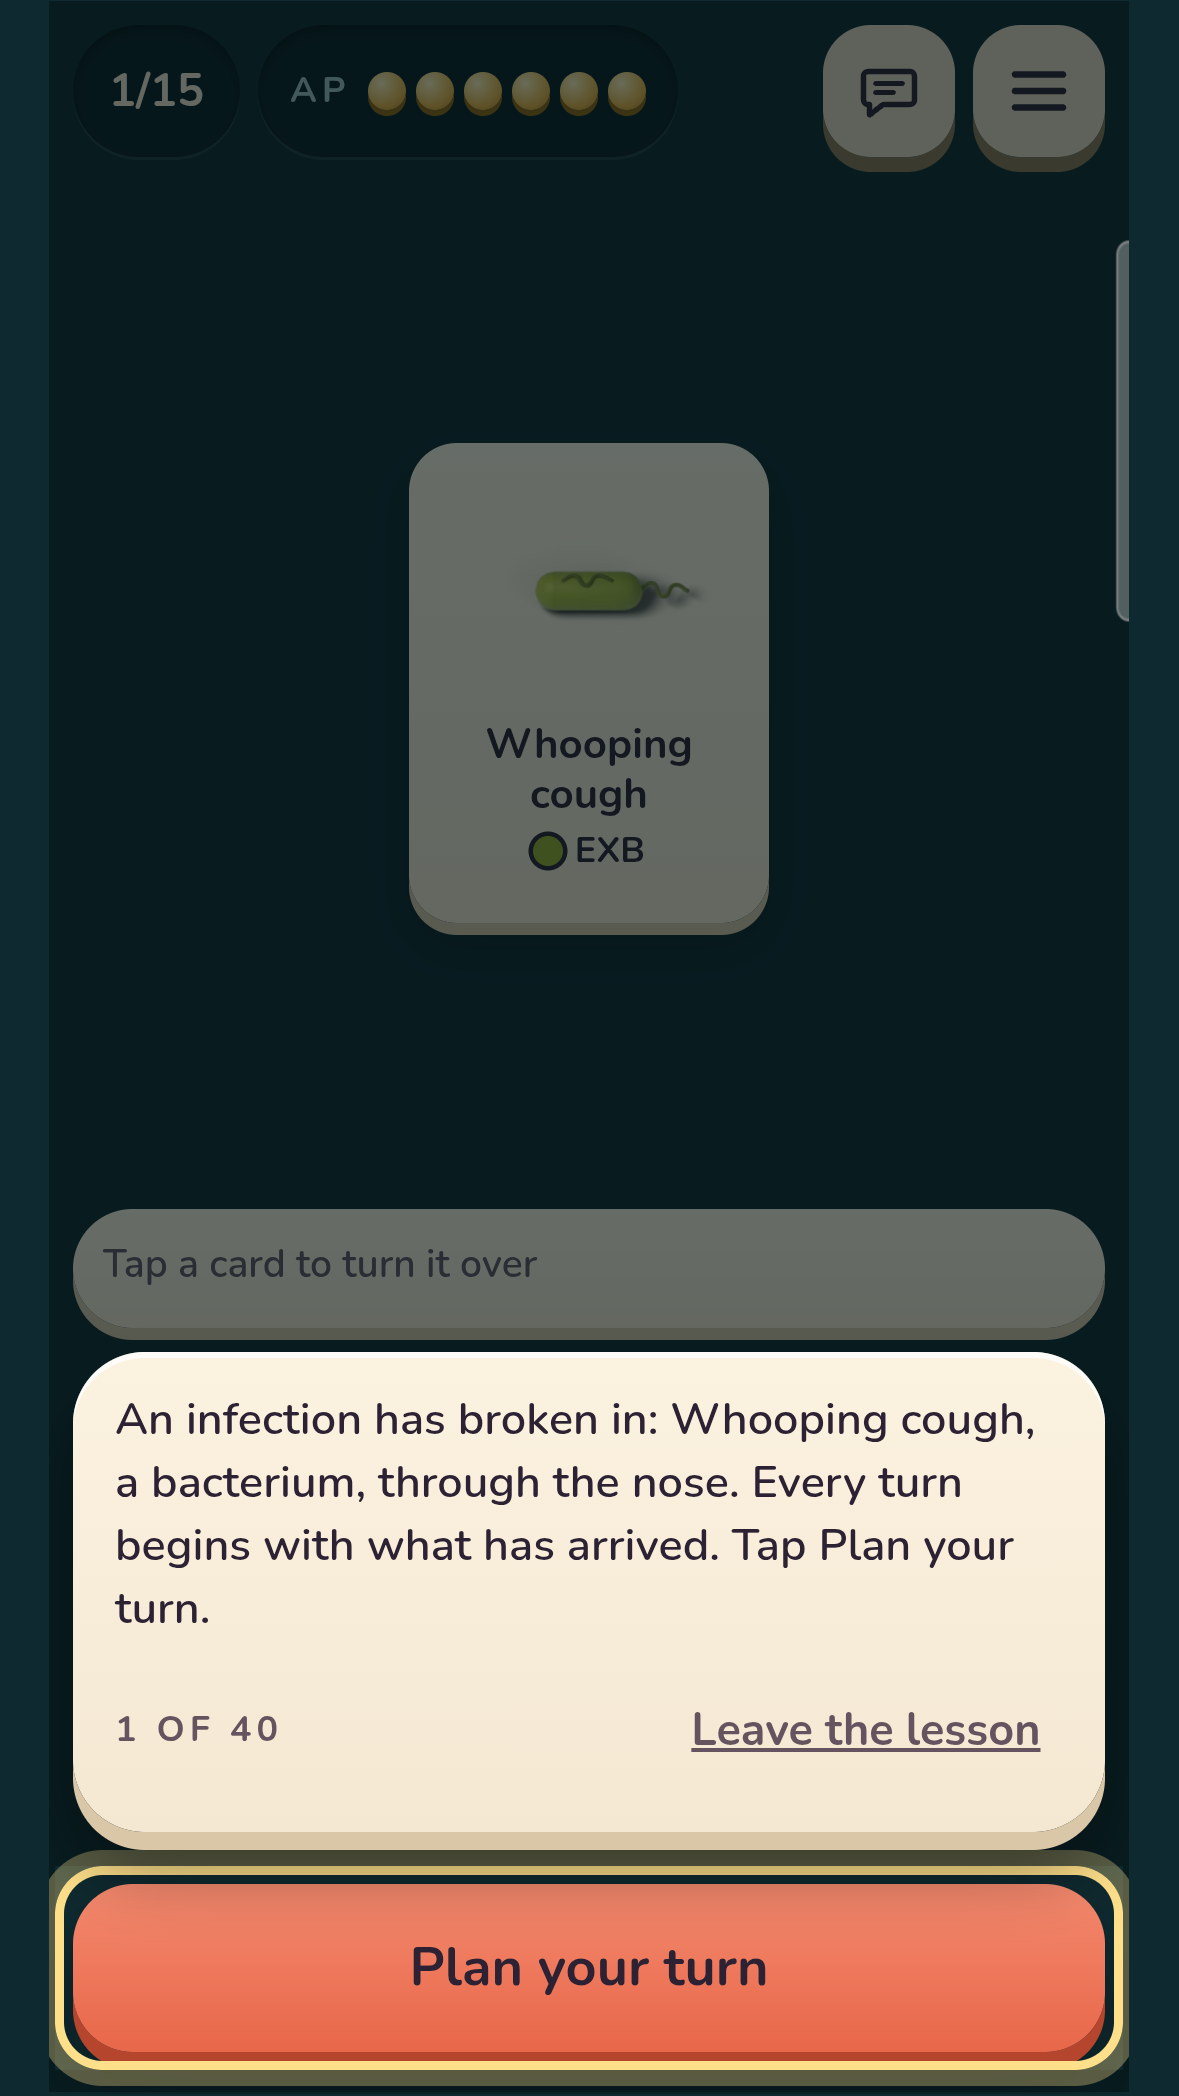
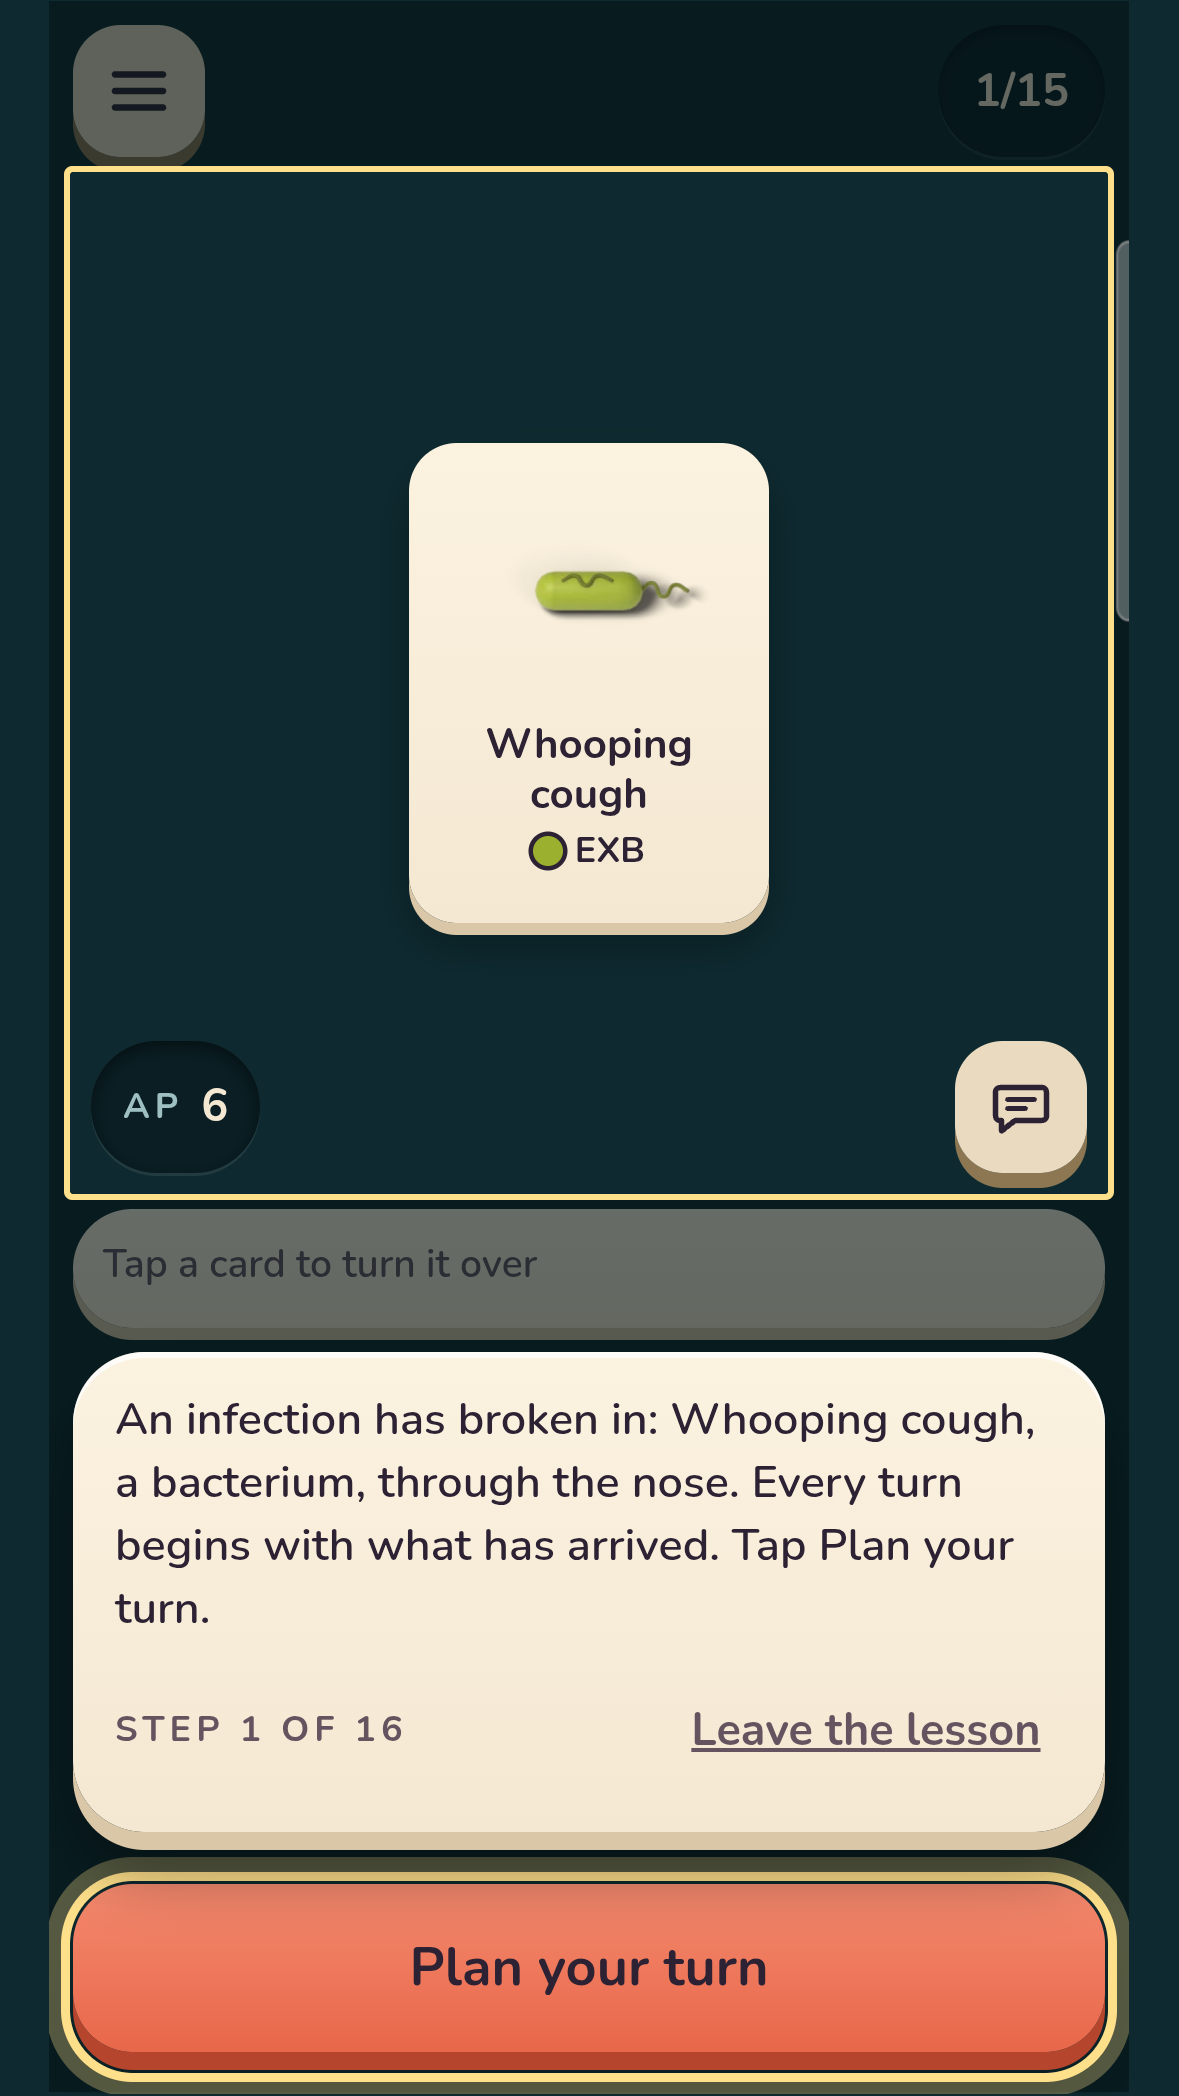
The public release on Google Play, recorded; the store pictures made current
Ruled 18 and 20 October 2026: the game is released on Google Play before
Gate 2 (docs/LOOK_PLAN.md §31; brief v2.3). Version 0.9, code 2, from main at
f01dccf, live on 20 October in all 178 countries. Gate 2 is still open.

- §31 records the release, the closed test's code 2, and the deploys since
  5 October that no section held: the app on 5 and 17 October, the relay on
  17 October.
- The store's pictures, taken again: six phone screenshots on the S25, twelve
  tablet ones from the web build. The screenshot tool had stopped working when
  Learn to play began opening the chapters (16 October); it presses the
  chapter that can be played now.
- Capacitor's generated settings file names 8.5.3, as Dependabot's updates
  left it naming 8.5.2; pnpm android:bundle refuses a working folder with
  changes.
- TODO: the public release leaves the list; the screenshots row records the
  retake.

diff --git a/tools/art-pipeline/store-shots.ts b/tools/art-pipeline/store-shots.ts
@@ -123,7 +123,10 @@ async function walk(
     await fresh();
     await shoot('1-title');
     // The guided game, past its goal dialog (whose one button is Begin), its light on the first step.
+    // Learn to play opens the chapters since 16 October 2026 (docs/LOOK_PLAN.md §29); on a first
+    // visit the one that can be played is the first.
     await pressSel('[data-title="learn"]');
+    await pressSel('[data-chapter-state="open"]');
     await pressSel('[data-dialog-dismiss]');
     await sleep(3500);
     await shoot('2-guided-game');

diff --git a/docs/LOOK_PLAN.md b/docs/LOOK_PLAN.md
@@ -2893,3 +2893,73 @@ let's hide it beneath a switch in code and adjust audit step etc. record the rul
   so the Result, its two screens and a cell's card from the inspect sheet were not measured there,
   and a row with several targets was not dealt in two passes. Each is the dice's, as the audit is
   unseeded by ruling (§20), and each was measured clean in the other passes.
+
+## 31. Ruled 18 and 20 October 2026: released on Google Play, before Gate 2
+
+**The closed test's fourteen days were done on 18 October.** He asked: *"14 days are done shall I
+apply for production? We can always keep uodating right?"*, and then: *"Yes I would apply the
+latest build everywhere."* He applied for production access himself that evening, at 20:38. **Google granted it
+on 20 October,** and he wrote: *"approval has come from google, let's make the app live"*. Told
+then that this overrides the order the plan and the brief had, he went ahead.
+
+- **This replaces the order of §26 and the brief's v2.2**, where the public release waited for his
+  visual approval. The brief is v2.3 and says so.
+- **Gate 2 is not met,** and stays the gate this phase ends on. His approval of the whole look has
+  not been given; the screens now reach players through store updates while it is open.
+
+### What reached people, from 5 October
+
+| When | What | From `main` at | Version |
+|---|---|---|---|
+| 5 October, 20:21 IST | The app: the lesson in chapters and why each beat of the spread happened (§28, step 3) | `45d9578` | `20261005-202119-45d9578` |
+| 17 October, 11:41 IST | The app: the chapters to choose, what a card talks about lit, the layout's symmetry, his words for the lesson (§29) | `10f1282` | `20261017-114100-10f1282` |
+| 17 October, 20:00 IST | The relay: the day's dependency updates, `ws` among them. Nobody was connected; it restarted at 20:00:33 | `f01dccf` | `20261017-200026-f01dccf` |
+| 17 October, 20:00 IST | The app: Undo hidden (§30) | `f01dccf` | `20261017-200059-f01dccf` |
[1 lines of base64/hex data omitted]
+| 20 October, 16:20 | **Production:** the same bundle, code 2, full rollout, in all 178 countries and regions Play offers | `f01dccf` | the same |
+
+The times on the last two rows are Play Console's. After each app deploy the lesson was walked on the
+live app, 82 beats of 82; on the last, the selected piece's card had no Undo.
+
+### The store listing, made current for the release
+
+The listing had been filled in for the closed test on 3 October, and the public would have opened
+on pictures of the game before §28 and §29: the old title line, the Action Points as pips in the
+top bar, Undo on the piece's card, and the lesson counting *1 of 40*. Its feature graphic was the
+3 October one, which says *"for two to fifteen players"*; the corrected one, made on 5 October, had
+not been uploaded.
+
+| Picture | Made |
+|---|---|
+| The feature graphic | The 5 October one, from the catalogue's title line (§28, step 1) |
+| Six phone screenshots | 20 October, by `pnpm art:shots` on the S25 over the cable, from a debug build of `main` at `f158037`. Its screens are code 2's: what `main` gained after `f01dccf` is dependency updates |
+| Twelve tablet screenshots | 20 October, by `pnpm art:shots --tablet`, from the web build in headless Chrome |
+
+- **The screenshot tool had stopped working on 16 October,** when *Learn to play* began opening the
+  chapters: it pressed the title's button and waited for the lesson. It now presses the chapter that
+  can be played. It needs a phone or a browser to run, so no gate runs it, and nothing said it was
+  broken until it was used.
+- **The first phone set was retaken:** another app's chat bubble was drawn over the game in all six,
+  as Android draws bubbles over every app. He dismissed it and the six were taken again, clean.
+- **What's new**, the release notes: *"The first public release of The Immunity Wars. Learn to play
+  in seven short chapters, then defend the body on Easy, Normal or Hard, on your own or with friends
+  in a private room."*
+
+**Who pressed what.** Claude chose the 178 countries in the console and saved them as a draft.
+Creating the release, the pictures' upload and the submission were his: this session's permission
+check refused two of Claude's presses, on creating and on promoting a release, and the browser pane cannot
+hand a file to a page. An empty draft release Claude had opened on the Production track, which greys
+out *Promote release*, he discarded.
+
+| Seen after, from the PC | Found |
+|---|---|
+| Play Console's latest releases | Production: 2 (0.9), *Available on Google Play*, full rollout, 178 of 178 |
+| The public store page | The new screenshots; *What's new* as above |
+
+- **Not seen:** the game installed from the public listing on a phone that is not a tester's. On his
+  S25 the store says *Immunity Wars (Beta)*, because his account is in the closed test; it stays in
+  it, so that updates can be played there first.
+- **Found on the way, and committed with this record:** Dependabot's two Capacitor updates (8.5.2 to
+  8.5.3) had left the file Capacitor writes for the Android project naming the old version's folder.
+  Today's build rewrote it, and `pnpm android:bundle` refuses a working folder with changes, so
+  left uncommitted it would have stopped the next store build made on this PC.

diff --git a/docs/TODO.md b/docs/TODO.md
@@ -10,13 +10,12 @@ When an item is done it leaves this list, and the record of it is wherever the w
 | 3 | **The printed A2 board aligned with the app's board** ([`FINDINGS.md`](FINDINGS.md) #49) | *"Don't know if the board will ever be orinted again so not a priority. If we do we will need to align with the app again."*, 2 October 2026 | Only if the board is printed again | Not started |
 | 4 | **The printed Diphtheria and Anthrax cards,** which are toxin cards where the game has bacteria (queue Q15). The rulebook carries a note on how to play them | Not ruled: it follows from Q15 | Only if the cards are printed again | Not started |
 | 5 | **The newcomer test:** a person who has never seen the game starts and finishes one unaided. Gate 1's one human-tested item, and what stage L6 was to end on | *"We don't need the newcomer test. Defer that indefinitely."*, 2 October 2026 | Deferred indefinitely | Not run. Its protocol, [`NEWCOMER_TEST.md`](NEWCOMER_TEST.md), is written for the screens before the guided game and would need re-aiming first |
-| 6 | **The Play account and its closed test.** His to start, when he wants Google's clock running; about ₹2,000, once ([`ROADMAP.md`](../ROADMAP.md), Phase 4). A new personal account must run a closed test with at least 12 testers opted in for 14 days in a row before it may apply to publish | Agreed as the second step of three, 2 October 2026 ([`LOOK_PLAN.md`](LOOK_PLAN.md) §26); *"Yes to all. Please start."*, 3 October 2026 | Now | **Started 3 October:** the account is open; the store build, its graphics and the listing are prepared, and the privacy page is live (§26). Audience ruled 13 and above. **Live on the closed track since 3 October, 22:53 IST** (release 1, version 0.9); the 14 days run from when 12 testers have opted in |
-| 7 | **The public release.** The listing made public, after the closed test's 14 days and Google's review of the application to publish | Agreed as the third step: after his visual approval | After Gate 2 | Not started. The build it needs is made for the closed test (row 6) |
+| 6 | **The Play account and its closed test.** His to start, when he wants Google's clock running; about ₹2,000, once ([`ROADMAP.md`](../ROADMAP.md), Phase 4). A new personal account must run a closed test with at least 12 testers opted in for 14 days in a row before it may apply to publish | Agreed as the second step of three, 2 October 2026 ([`LOOK_PLAN.md`](LOOK_PLAN.md) §26); *"Yes to all. Please start."*, 3 October 2026 | Now | **Started 3 October:** the account is open; the store build, its graphics and the listing are prepared, and the privacy page is live (§26). Audience ruled 13 and above. **Live on the closed track since 3 October, 22:53 IST** (release 1, version 0.9); the 14 days run from when 12 testers have opted in. **Version 0.9, code 2, on the closed track since 18 October;** the track stays, so that an update is played there before it reaches everyone |
 | 8 | **What the Android app does when the game's server refuses an older version.** On the web it offers Update now, which reloads; an installed app updates from the store | *"do steps 1,3 and 4 right now"*, 5 October 2026 ([`LOOK_PLAN.md`](LOOK_PLAN.md) §28, step 4) | Now | **Built 5 October** (§28, step 4): it opens the game's page on Google Play. **Not yet seen on a phone:** that Android hands the link to Google Play is Capacitor's documented behaviour, not watched here |
-| 12 | **The store's screenshots taken again,** from the screens as Gate 2 leaves them (`pnpm art:shots`) | *"Yes to all"*, 3 October 2026: taken now, replaced after Gate 2 | With the public release | Not started |
+| 12 | **The store's screenshots taken again,** from the screens as Gate 2 leaves them (`pnpm art:shots`) | *"Yes to all"*, 3 October 2026: taken now, replaced after Gate 2 | After Gate 2 | **Taken again 20 October 2026** for the public release, from the screens as they are ([`LOOK_PLAN.md`](LOOK_PLAN.md) §31); to be taken again after Gate 2 |
 | 11 | **The measuring page's line for a slow frame follows the screen's refresh.** It is 20 ms, set for a screen that refreshes every 16.7; inside the shell the S25 refreshes every 8.3, and a frame that misses one refresh is under the line | Not ruled: an instrument's limit, found on the shell's first reading | Before stage L7's measurement | Not started |
 
 **Done since this list began** (2 October 2026): Diphtheria as a bacterium that releases its toxin,
 with Anthrax (queue Q15); the engine's refusal that said "hidden virus" (Q16); how Pathogen X comes,
 organs recovering and the order of the Spread phase, in print and in How to play. Text size inside
-the Android app, ruled the game's own and built ([`LOOK_PLAN.md`](LOOK_PLAN.md) §26); it was row 10. A version on saved games, built 5 October (§28, step 4); it was row 9. The lesson in chapters, shorter sentences for later taps, and why each beat of the spread happened, built 5 October (§28, step 3); it was row 13.
+the Android app, ruled the game's own and built ([`LOOK_PLAN.md`](LOOK_PLAN.md) §26); it was row 10. A version on saved games, built 5 October (§28, step 4); it was row 9. The lesson in chapters, shorter sentences for later taps, and why each beat of the spread happened, built 5 October (§28, step 3); it was row 13. The public release, made on 20 October 2026 before Gate 2, by ruling (§31); it was row 7.

diff --git a/docs/PHASE2_BRIEF.md b/docs/PHASE2_BRIEF.md
@@ -1,10 +1,24 @@
 # The Immunity Wars — Phase 2 Brief
 
-**Version:** 2.2 · 2 October 2026
+**Version:** 2.3 · 20 October 2026
 **Owner:** Shantanu (build direction) / Kartik (design)
 **Status:** **RESUMED 1 October 2026, as "the look".** Paused on 20 September
 ([`PHASE2_PAUSE.md`](PHASE2_PAUSE.md)); what follows the v2.0 section below is the brief as it stood
 at v1.7, kept as the record of what Phase 2 built.
+
+## What v2.3 records
+
+v2.3 changes the order of one thing again, by ruling (Shantanu, 18 and 20 October 2026;
+[`LOOK_PLAN.md`](LOOK_PLAN.md) §31): *"Yes I would apply the latest build everywhere"*, and, when
+Google granted production access, *"let's make the app live"*.
+
+- **The game is released on Google Play before Gate 2.** v2.2 kept the public release for after
+  his visual approval. It was made on 20 October 2026: version 0.9, in every country Play offers.
+- **Gate 2 is not met,** and is still the gate this phase ends on. His approval of the whole look
+  has not been given, and nothing here claims it has. What changes is that the screens reach
+  players through store updates while it is open.
+- **Store updates follow the closed test first.** The closed track stays, so that a build can be
+  played on his phone before it reaches everyone.
 
 ## What v2.2 records
 
@@ -15,7 +29,8 @@ v2.2 changes the order of one thing, by ruling (Shantanu, 2 October 2026;
   this phase ends. The app is one codebase, and the Android app is that codebase inside a shell, so
   a change to a screen costs the same before the shell exists and after it.
 - **What still waits for Gate 2 is the public release:** the store's listing, its screenshots and
-  the release itself.
+  the release itself. ⚠ *Superseded in v2.3:* the public release was made on 20 October 2026,
+  before Gate 2, by ruling.
 - **His review and his visual approval may be done on the Android app,** which is the thing that
   ships. The web version stays live, and the automated checks go on being run against it.
 - **Locked decision #1** is confirmed by a measurement taken inside the shell, as the plan's last

diff --git a/CLAUDE.md b/CLAUDE.md
@@ -16,7 +16,7 @@ Being rebuilt as a mobile-responsive web app, packaged to Android and iOS via Ca
 
 **Current phase: Phase 2** — the app people see, **RESUMED 1 October 2026 as "the look"**: the screens
 are replaced so the game looks like the best modern mobile games, before Phase 4.
-Spec: @docs/PHASE2_BRIEF.md (v2.2). **The plan its stages follow is @docs/LOOK_PLAN.md**, ruled by
+Spec: @docs/PHASE2_BRIEF.md (v2.3). **The plan its stages follow is @docs/LOOK_PLAN.md**, ruled by
 Shantanu the same day: style frames first and nothing built before he picks one; then a measured
 prototype, the kit, the play screen, the other screens, the guided game and the rename of Training
 to Easy, and Gate 2. **Stage L1 is done: he picked the Clay direction on 1 October** (pieces and
@@ -110,8 +110,9 @@ codebase and Capacitor stay; the engine, content, protocol, room and relay are n
 `packages/android` is Capacitor round the app's own build made for it (`vite build --mode android`:
 no service worker, no developer's page but the measuring page); id
 `com.kartikchaudhary.immunitywars`, name "Immunity Wars", no Android backup, all ruled. His review
-and his visual approval may be done on the Android app; **the public release still waits for
-Gate 2.** `pnpm android:apk --install` builds it and puts it on a connected phone, and needs a
+and his visual approval may be done on the Android app. **The public release was made before
+Gate 2, by ruling** (20 October 2026; plan §31, brief v2.3): the game is on Google Play, version
+0.9, in every country Play offers; Gate 2 is still open. `pnpm android:apk --install` builds it and puts it on a connected phone, and needs a
 Java 21 (`JAVA_HOME`) and the Android SDK (`ANDROID_HOME`); no machine's path is written in the
 repository. **It runs on his S25** (2 October): it starts, plays, reaches the relay, and is drawn at
 120 frames a second inside the shell, a first reading. `pnpm android:check` holds, on a connected
